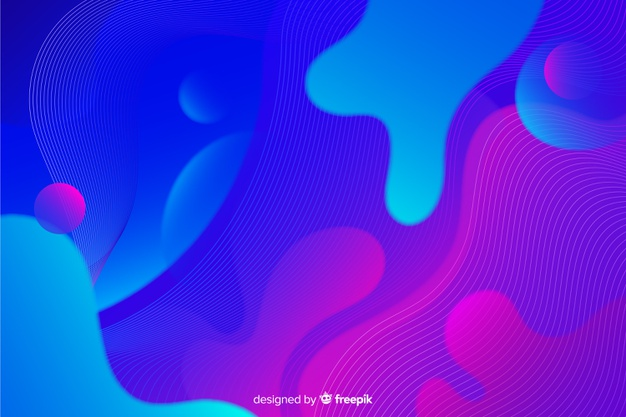
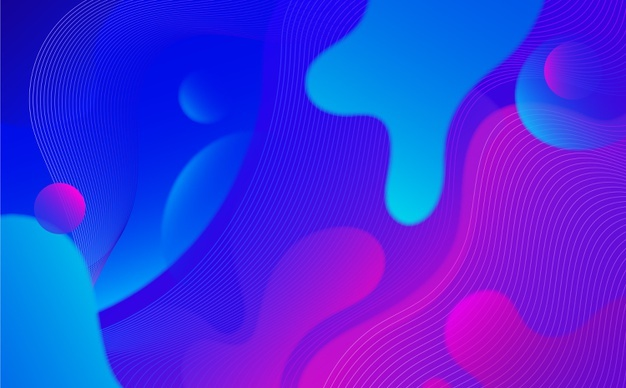
Update img

diff --git a/css/style.css b/css/style.css
@@ -16,7 +16,8 @@ p {
 	width: 100%;
 	height: 100%;
 	color: #ffffff;
-  	background: linear-gradient(to bottom right, #00dbde, #fc00ff);
+  	/*background: linear-gradient(to bottom right, #00dbde, #fc00ff);*/
+  	background: url(../asset/blue-bg-3.jpg);
 }
 
 .welcome{
